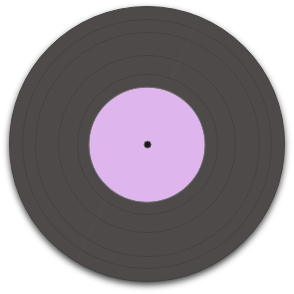
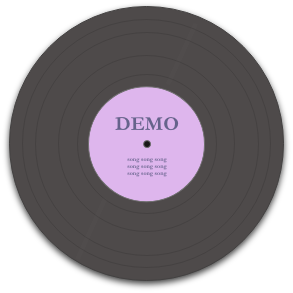
Patrick addition  merged

Changed region(s): [[0.43, 0.5222, 0.5836, 0.6143], [0.3993, 0.3993, 0.6143, 0.4608]]

diff --git a/assets/css/style.css b/assets/css/style.css
@@ -18,13 +18,24 @@ body {
     letter-spacing: 0.1em;
 }
 
+/* #record-img {
+-webkit-animation:spin 4s linear infinite;
+-moz-animation:spin 4s linear infinite;
+animation:spin 4s linear infinite;
+}
+#record-img:hover {
+@-moz-keyframes spin { 100% { -moz-transform: rotate(360deg); } }
+@-webkit-keyframes spin { 100% { -webkit-transform: rotate(360deg); } }
+@keyframes spin { 100% { -webkit-transform: rotate(360deg); transform:rotate(360deg); } }
+
+} */
 /*----------RECORD MOVE---------------*/
 #record-img {
     border-radius: 50%;
-    -webkit-transition: -webkit-transform 60s ease-in-out;
-            transition:         transform 60s ease-in-out;
+    -webkit-transition: -webkit-transform 120s linear;
+            transition:         transform 120s linear;
   }
-  #record-img:hover {
+#record-img:hover {
     -webkit-transform: rotate(10800deg);
             transform: rotate(10800deg);
   }
@@ -48,11 +59,14 @@ body {
         left: 0p;
 
     }
+
     #record-img {
+        height: 280px;
+        width: 280px;
         position: absolute;
-        top: 34px;
+        top: 38px;
         /* left: 112.5px; */
-        left: 77px;
+        left: 82px;
         z-index: 1;
     }
 
@@ -61,7 +75,7 @@ body {
         position: absolute;
         top: 37.5px;
         left: 112.5px;
-        z-index: 2;
+        z-index: 3;
     }
 
     /*player and needle and all the beautiful things*/
@@ -86,3 +100,7 @@ body {
 
 
 /*-----------------------------------*/
+
+#band-info{
+    color:blue
+}

diff --git a/assets/js/app.js b/assets/js/app.js
@@ -11,7 +11,10 @@ $("#album-img").click(function() {
     })
 });
 
-
+////RECORD SPIN////
+// $("#record-img").on("click", function()) {
+//     $("#record-img").attr("style", "transform: rotate(7deg)");
+// }
 
 
 ////////////////////
@@ -62,4 +65,31 @@ $("#genre-submit").click(function(event){
 //Display current username and genre
 
 //
+
+//api call
+searchBandsInTown("kiss")
+function searchBandsInTown(artist) {
+  // Querying the bandsintown api for the selected artist, the ?app_id parameter is required, but can equal anything
+  var queryURL = "https://rest.bandsintown.com/artists/" + artist + "?app_id=codingbootcamp";
+  $.ajax({
+    url: queryURL,
+    method: "GET"
+  }).then(function(response) {
+    // Printing the entire object to console
+    console.log(response);
+
+    //making html elemnts to store data about artist
+
+    var bitBandName = $("<h1>").text(response.name);
+    var bitBandImage = $("<img>").attr("src", response.thumb_url);
+    var bitFacebook = $("<a>")
+    bitFacebook.attr("href", response.facebook_page_url).text("Facebook Page")
+    var bitTourSchedule = $("<a>").attr("href", response.url).text("Upcoming events!!")
+    var bitFacebookP = $("<p>").append(bitFacebook)
+    var bitHolder = $("<p>").append(bitTourSchedule)
+    console.log(bitBandImage)
+    $("#band-info").empty()
+    $("#band-info").append(bitBandName, bitBandImage,bitFacebookP, bitHolder)
+  });
+}
 

diff --git a/index.html b/index.html
@@ -7,6 +7,7 @@
     <title>vinylly</title>
 
     <!--USUAL SUSPECTS-->
+    <link rel='icon' href='assets/images/objects/record.ico' type='image/x-icon'/>
     <link rel="stylesheet" href="assets/css/reset.css">
     <link rel="stylesheet" href="https://maxcdn.bootstrapcdn.com/bootstrap/4.0.0/css/bootstrap.min.css">
     <link rel="stylesheet" href="assets/css/style.css">
@@ -50,7 +51,7 @@
     <div class="row">
         <div class="col-md-6 p-0 m-0">
             <div id="album-view" class="text-center m-0 p-0">
-                <img id="record-img" class="record m-0 p-0" src="assets/images/objects/record.png" alt="record" class="img"> 
+                <img id="record-img" class="record m-0 p-0" src="assets/images/objects/isaac-hayes-hot-buttered-soul.png" alt="record" class="img"> 
                 <img id="album-img" class="album-cover m-0 p-0" src="assets/images/albums/album-placeholder.png" alt="album cover" class="img">
             </div>
             <div id="player-container" class="text-center">
@@ -78,8 +79,7 @@
 
 <!--PATRICKS DIV YO YO YO YOYOYOYOYOYOYO-->
 <div>
-
-
+<div class = "container text-center" id="band-info">
 </div>
 
 
